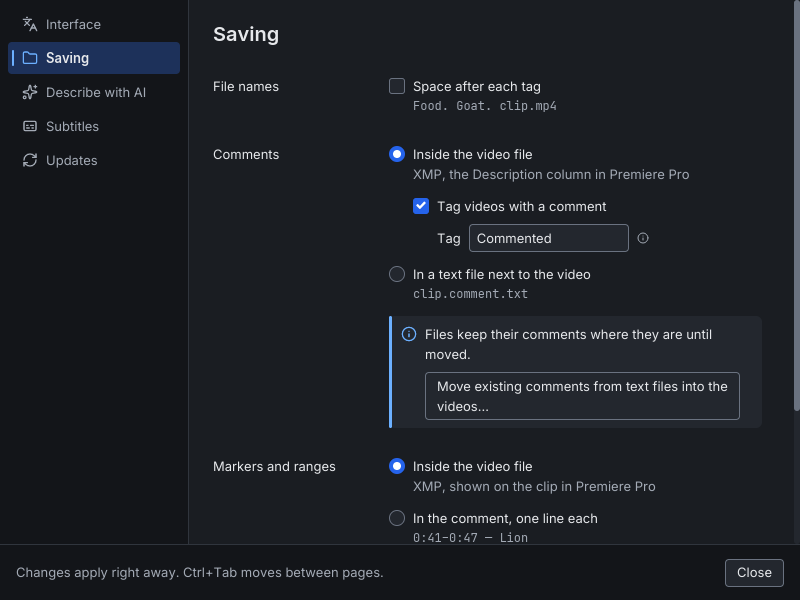
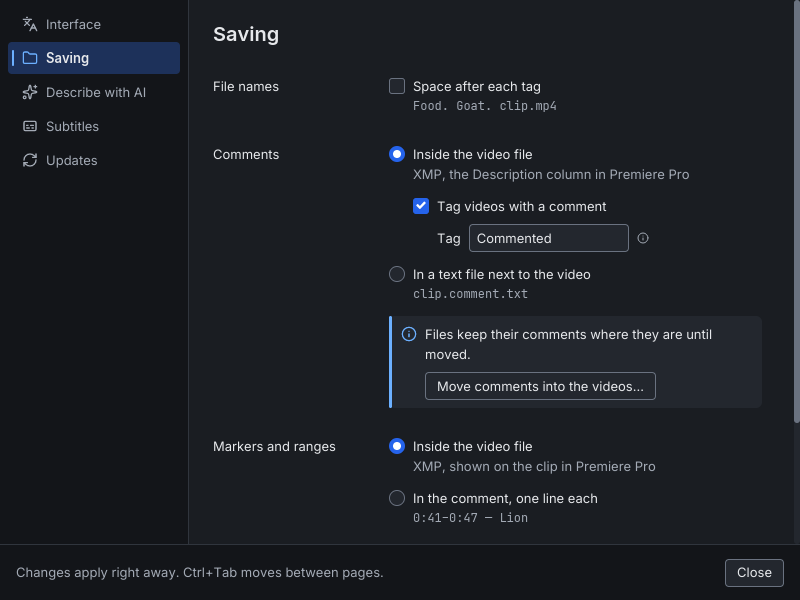
Review round 2 (minor): a stale removal question does not take Esc; lint counts only size-named consts
Screenshots retaken at this commit, including the Russian AI page and
replacing a key.

Refs #57

diff --git a/src/ui/lint.rs b/src/ui/lint.rs
@@ -62,8 +62,9 @@ const SIZE_METHOD_ENDINGS: [&str; 7] = [
 const SIZE_METHODS: [&str; 2] = ["center_x", "center_y"];
 
 /// Functions whose arguments are sizes, offsets or radii.
-const SIZE_FUNCTIONS: [&str; 5] = [
+const SIZE_FUNCTIONS: [&str; 6] = [
     "rounded(",
+    "radius(",
     "Length::Fixed(",
     "Padding::new(",
     "Vector::new(",
@@ -73,8 +74,9 @@ const SIZE_FUNCTIONS: [&str; 5] = [
 /// Style structs whose fields are sizes.
 const SIZE_STRUCTS: [&str; 3] = ["Padding {", "Border {", "Shadow {"];
 
-const COLOR_LITERALS: [&str; 7] = [
+const COLOR_LITERALS: [&str; 8] = [
     "Color::from_rgb",
+    "Color::parse(",
     "Color::from_linear",
     "Color::new(",
     "Color {",
@@ -85,6 +87,12 @@ const COLOR_LITERALS: [&str; 7] = [
 
 /// The types a size constant has.
 const SIZE_TYPES: [&str; 3] = ["f32", "u16", "u32"];
+
+/// Words in a constant's name that make it a size (a ratio, an alpha or a count is not one).
+const SIZE_NAMES: [&str; 11] = [
+    "WIDTH", "HEIGHT", "SIZE", "SPACING", "PADDING", "GAP", "RADIUS", "MARGIN", "INDENT", "SIDE",
+    "PX",
+];
 
 /// The code of a file without comments and without its `#[cfg(test)]` items.
 fn code(text: &str) -> String {
@@ -220,7 +228,9 @@ fn violations(code: &str) -> Vec<String> {
         let size_type = SIZE_TYPES
             .iter()
             .any(|t| name_and_type.trim_end().ends_with(&format!(": {t}")));
-        if size_type && has_number(value) {
+        let name = name_and_type.split(':').next().unwrap_or_default();
+        let size_name = SIZE_NAMES.iter().any(|word| name.contains(word));
+        if size_type && size_name && has_number(value) {
             found.push(declaration.trim().to_string());
         }
     }
@@ -292,6 +302,7 @@ fn every_file_not_yet_on_the_system_exists() {
 fn the_scan_finds_literals_and_lets_tokens_and_zero_through() {
     let code = code(
         "const GAP: f32 = 6.0; const NONE: f32 = 0.0; const ID: &str = \"x-1\";
+         const IDLE_ALPHA: f32 = 0.6; const RETRIES: u32 = 3;
          fn v() { text(\"a\").size(13); row![].spacing(SPACE_S).padding(0).spacing(GAP);
          container(x).padding([4, 8]).width(Length::Fixed(260.0)).center_y(56);
          row![].vertical_spacing(6); let p = Padding { top: 0.0, left: 26.0, ..Padding::ZERO };

diff --git a/src/features/settings/state.rs b/src/features/settings/state.rs
@@ -163,7 +163,9 @@ impl SettingsState {
             _ => return false,
         };
         let key = self.key(which);
-        let cancel = if key.confirm_remove {
+        // The question shows only while a key is saved; a stale one (the key went away) is not
+        // on screen and does not take the Esc.
+        let cancel = if key.confirm_remove && key.state == Some(KeyState::Saved) {
             KeyMessage::CancelRemove
         } else if key.replacing {
             KeyMessage::CancelReplace
@@ -540,6 +542,14 @@ mod tests {
     #[test]
     fn esc_cancels_a_pending_removal_on_the_page_shown_before_it_closes_the_window() {
         let mut state = test_state();
+        let read = state.begin_key_request(ApiKey::Soniox);
+        state.apply(Message::Key(
+            ApiKey::Soniox,
+            KeyMessage::State {
+                request: read,
+                result: Ok(KeyState::Saved),
+            },
+        ));
         state.apply(Message::Key(ApiKey::Soniox, KeyMessage::AskRemove));
         assert!(
             !state.escape(),
@@ -570,6 +580,22 @@ mod tests {
         );
         let key = state.key(ApiKey::Anthropic);
         assert!(!key.replacing && key.input.is_empty() && key.error.is_none());
+    }
+
+    #[test]
+    fn a_removal_question_left_for_a_key_that_is_gone_does_not_take_the_esc() {
+        let mut state = test_state();
+        state.page = Page::Subtitles;
+        state.apply(Message::Key(ApiKey::Soniox, KeyMessage::AskRemove));
+        let read = state.begin_key_request(ApiKey::Soniox);
+        state.apply(Message::Key(
+            ApiKey::Soniox,
+            KeyMessage::State {
+                request: read,
+                result: Ok(KeyState::Missing),
+            },
+        ));
+        assert!(!state.escape(), "nothing on screen to cancel: Esc closes");
     }
 
     #[test]

diff --git a/docs/design/design-system.md b/docs/design/design-system.md
@@ -949,11 +949,15 @@ the Anthropic key as saved and the Soniox key as missing):
 |---|---|---|
 | ![](design-system/built-subtitles.png) | ![](design-system/built-updates.png) | ![](design-system/built-ru-saving.png) ![](design-system/built-ru-ai.png) |
 
-| Comments inside the video, after a change | Removing the key | Keyring unavailable |
+| Comments inside the video, after a change | Removing the key | Replacing the key |
 |---|---|---|
-| ![](design-system/built-saving-commented.png) | ![](design-system/built-ai-remove.png) | ![](design-system/built-subtitles-keyring.png) |
+| ![](design-system/built-saving-commented.png) | ![](design-system/built-ai-remove.png) | ![](design-system/built-ai-replace.png) |
 
-The last row was taken with a local, uncommitted patch that puts the demo into those states; an
+| Keyring unavailable |
+|---|
+| ![](design-system/built-subtitles-keyring.png) |
+
+The state screenshots were taken with a local, uncommitted patch that puts the demo into those states; an
 update that is ready cannot be shown by a development build (it never finds one), see the mockup.
 
 Differences from the mockups: *Remove…* gained a 1 px `error` edge after review, so it reads as a
@@ -1018,11 +1022,13 @@ A unit test (`src/ui/lint.rs`) reads every `.rs` file under `src/` outside `src/
   too), `.center_x(` / `.center_y(`, `rounded(`, `Length::Fixed(`, `Padding::new(`, `Vector::new(`,
   `padding::…(`; a number inside `Padding {`, `Border {` or `Shadow {`, or after `radius:`;
 - a size moved into a constant of the file (`const GAP: f32 = 6.0`): a size of its own is still
-  not a token.
+  not a token. Only constants named as sizes count (`…WIDTH`, `…HEIGHT`, `…SIZE`, `…SPACING`,
+  `…PADDING`, `…GAP`, `…RADIUS`, `…MARGIN`, `…INDENT`, `…SIDE`, `…PX`), so an alpha or a count is
+  not pushed into the tokens.
 
 `0` alone is allowed (it means "none"), and so is `FillPortion(n)` (a ratio, not a size).
-Colors also include `Color::new(`, `Color {` and `Color::from_linear…`; `Size::new(` and
-`border::…(` count as sizes too. The test cannot see a size kept in a local `let` (`let gap =
+Colors also include `Color::new(`, `Color {`, `Color::parse(` and `Color::from_linear…`;
+`Size::new(`, `radius(` and `border::…(` count as sizes too. The test cannot see a size kept in a local `let` (`let gap =
 6.0;`): reviewers of #58 and #59 check that by eye.
 
 Files not yet on the system are in an **allow-list inside the test**, each with the issue that moves
